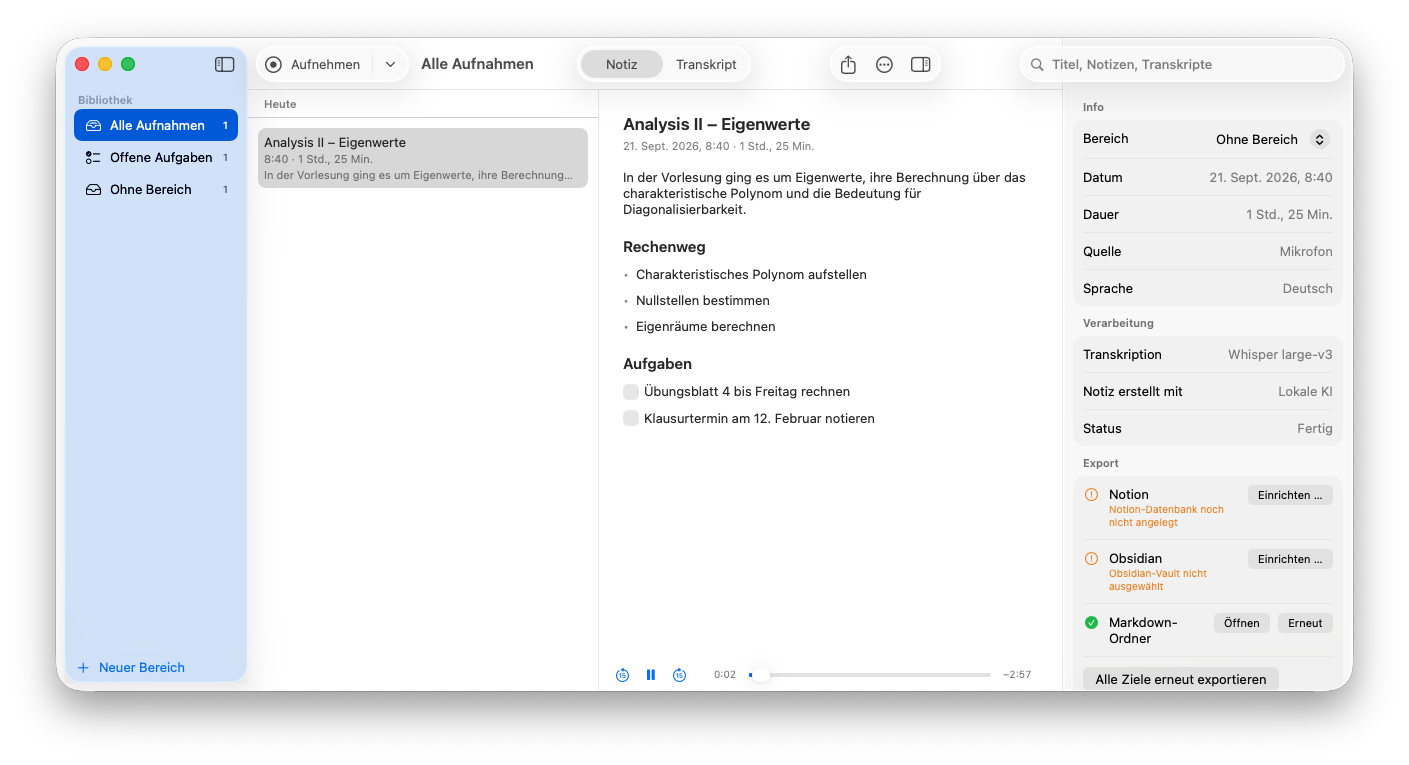
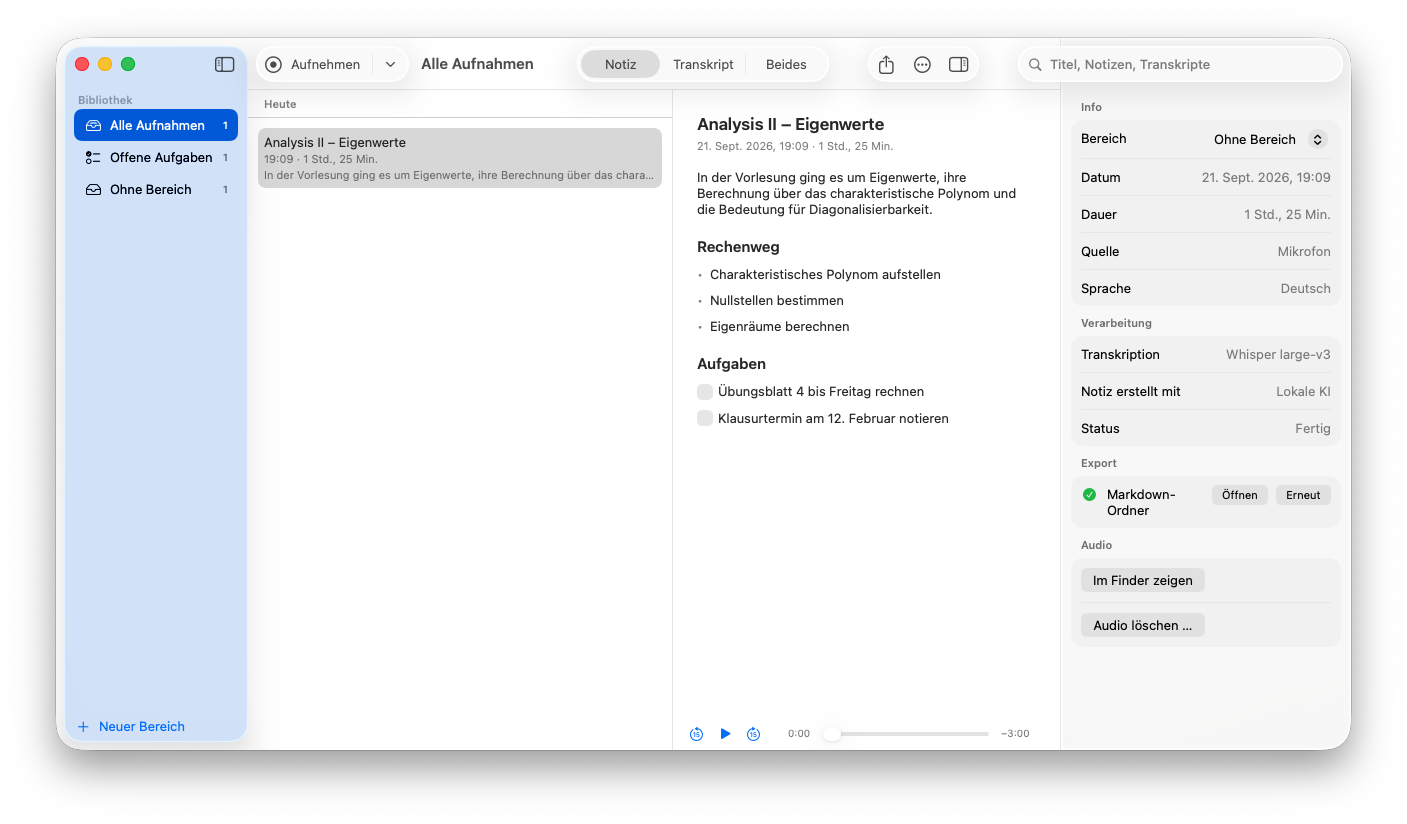
Website: Bildschirmfotos auf den Stand von 0.9.3
Hauptfenster hell in beiden Sprachen, Notiz und Transkript nebeneinander im dunklen Modus,
und statt der Transkriptions-Einstellungen jetzt die Auswahl der lokalen KI-Modelle.

diff --git a/docs/de.html b/docs/de.html
@@ -226,9 +226,9 @@
         <h2 class="reveal">Gebaut wie eine Mac-App.</h2>
         <div class="shots" style="margin-top:30px">
             <figure class="reveal"><img src="assets/shot-settings-de.png" alt="Einstellungen von Earnote">
-                <figcaption>Native Einstellungen – keine Webseite in einem Fenster.</figcaption></figure>
+                <figcaption>Sechs lokale KI-Modelle zur Wahl – Earnote schlägt das passende für deinen Mac vor.</figcaption></figure>
             <figure class="reveal"><img src="assets/shot-dark-de.png" alt="Earnote im dunklen Modus mit Abspielleiste">
-                <figcaption>Hell und dunkel, mit der Abspielleiste unter jeder Notiz.</figcaption></figure>
+                <figcaption>Notiz und Transkript nebeneinander (⌘3), hell und dunkel.</figcaption></figure>
         </div>
     </div>
 </section>

diff --git a/docs/index.html b/docs/index.html
@@ -226,9 +226,9 @@
         <h2 class="reveal">Built like a Mac app.</h2>
         <div class="shots" style="margin-top:30px">
             <figure class="reveal"><img src="assets/shot-settings-en.png" alt="Earnote settings window">
-                <figcaption>Native settings — no web page in a window.</figcaption></figure>
+                <figcaption>Six local AI models to choose from — Earnote preselects the one that fits your Mac.</figcaption></figure>
             <figure class="reveal"><img src="assets/shot-dark-en.png" alt="Earnote in dark mode with the player bar">
-                <figcaption>Light and dark, with the player under every note.</figcaption></figure>
+                <figcaption>Note and transcript side by side (⌘3), in light and dark.</figcaption></figure>
         </div>
     </div>
 </section>
